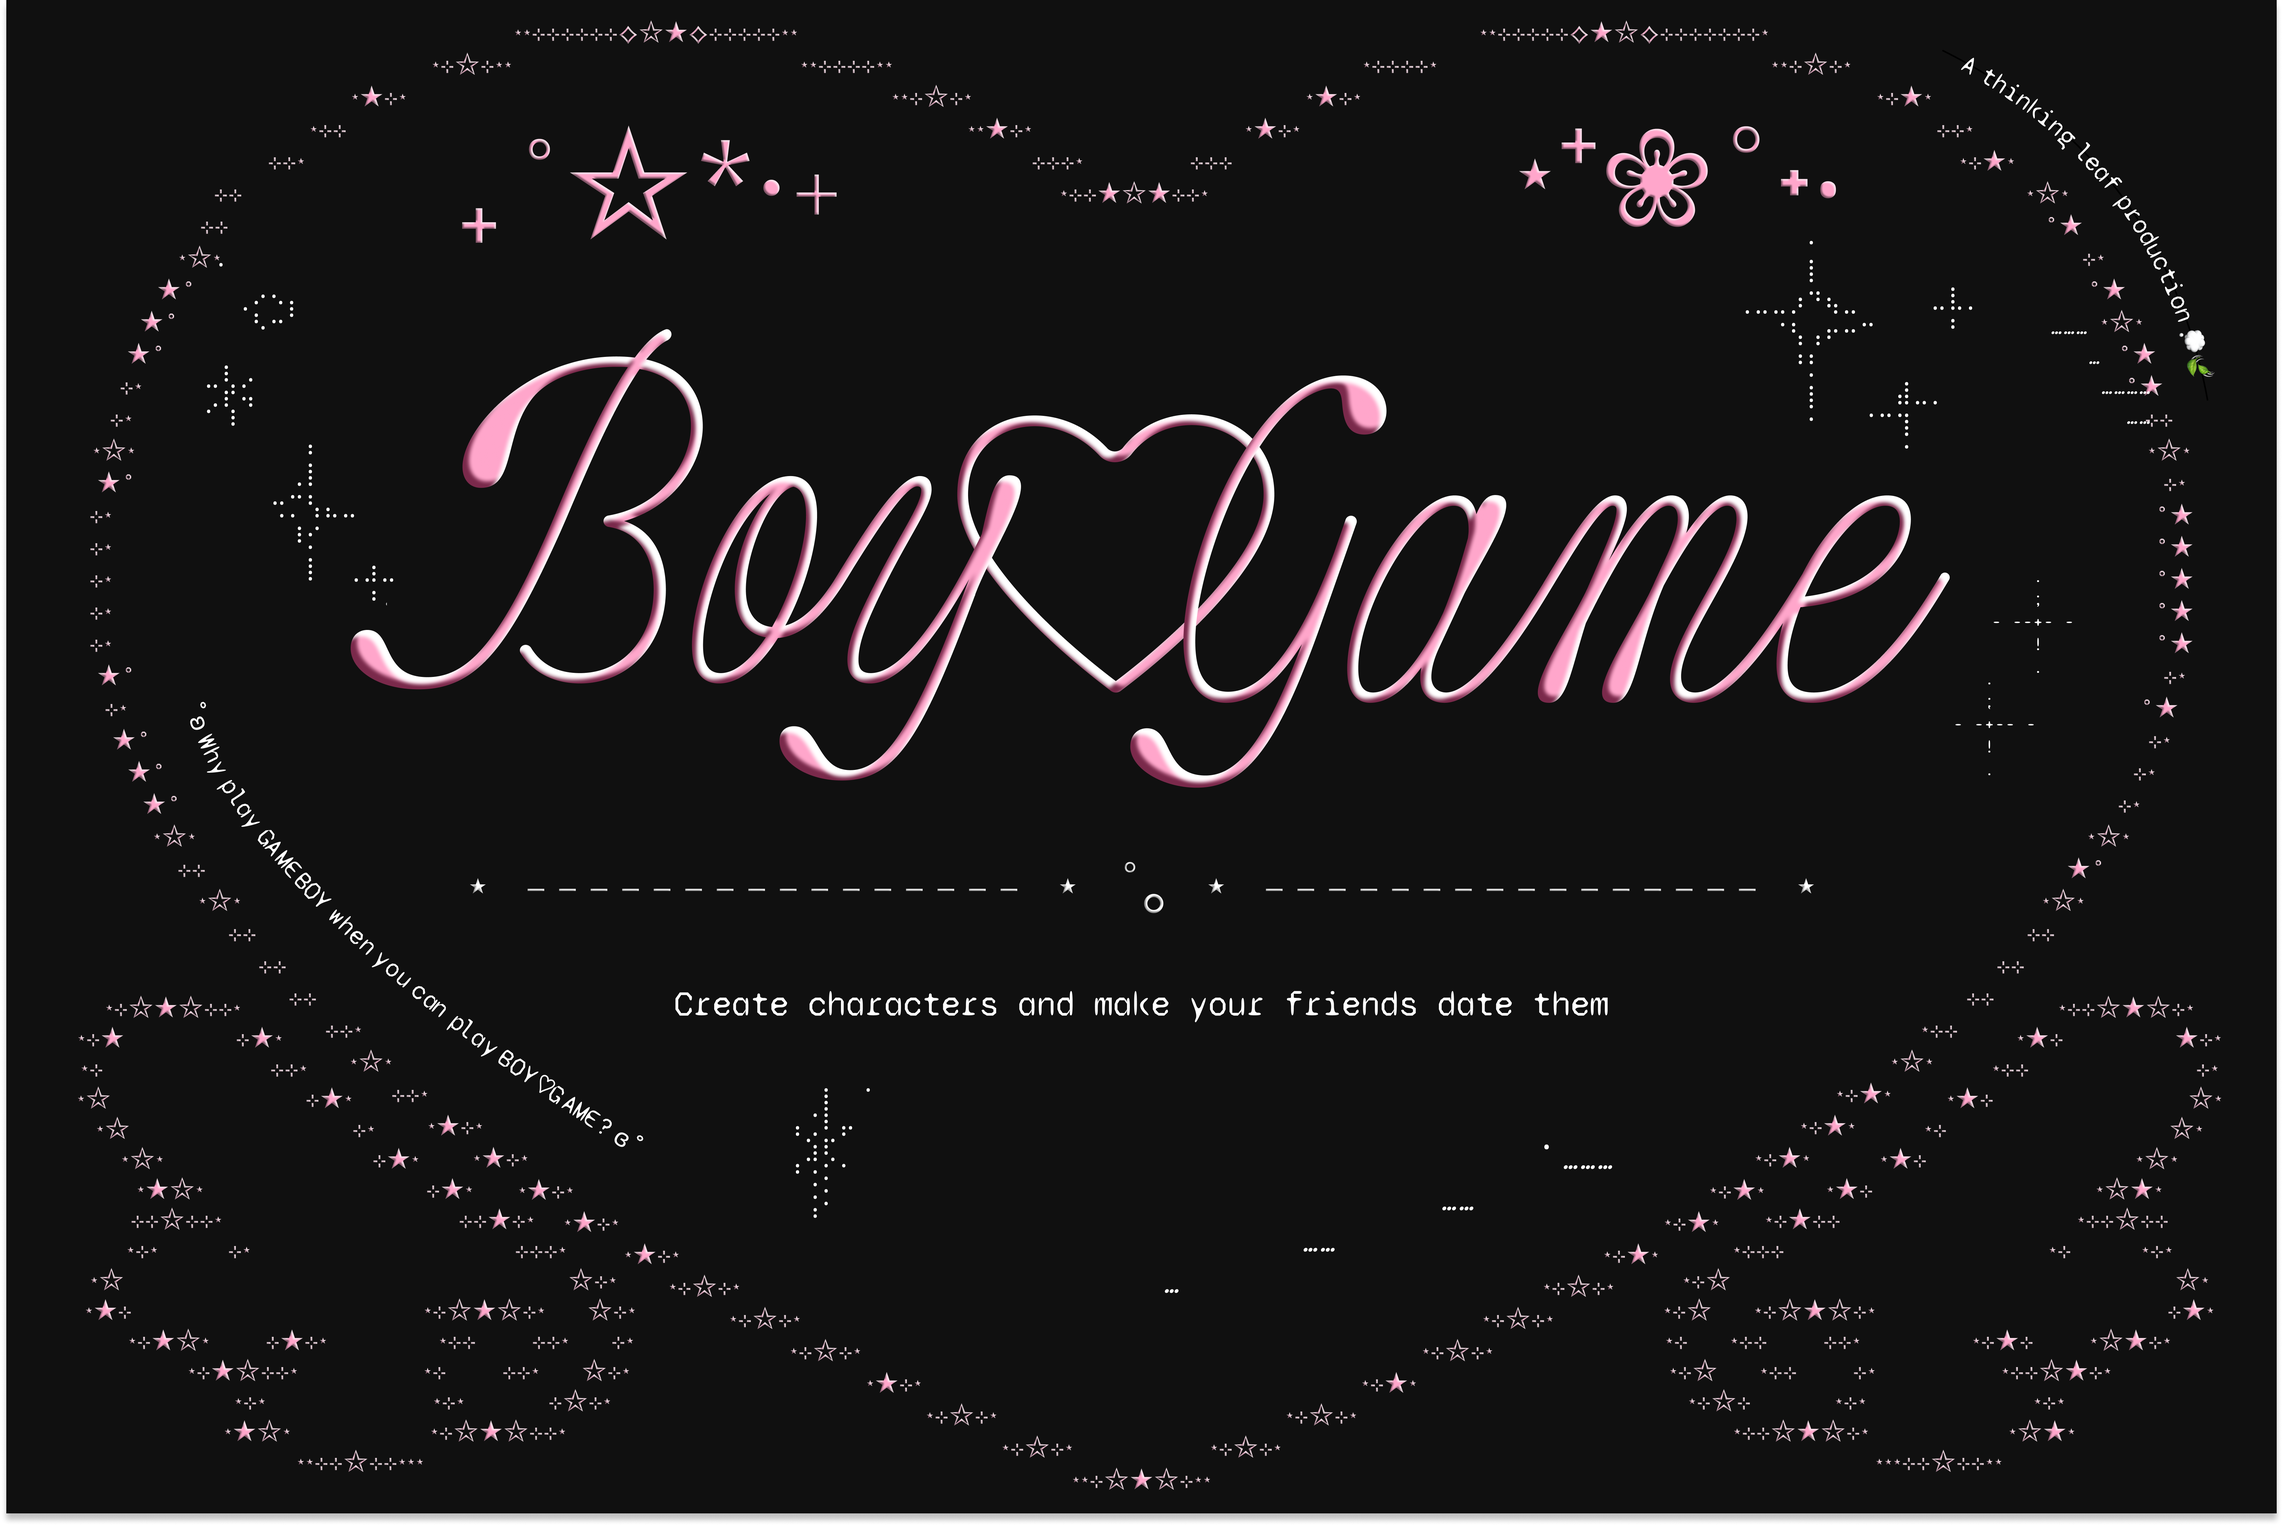
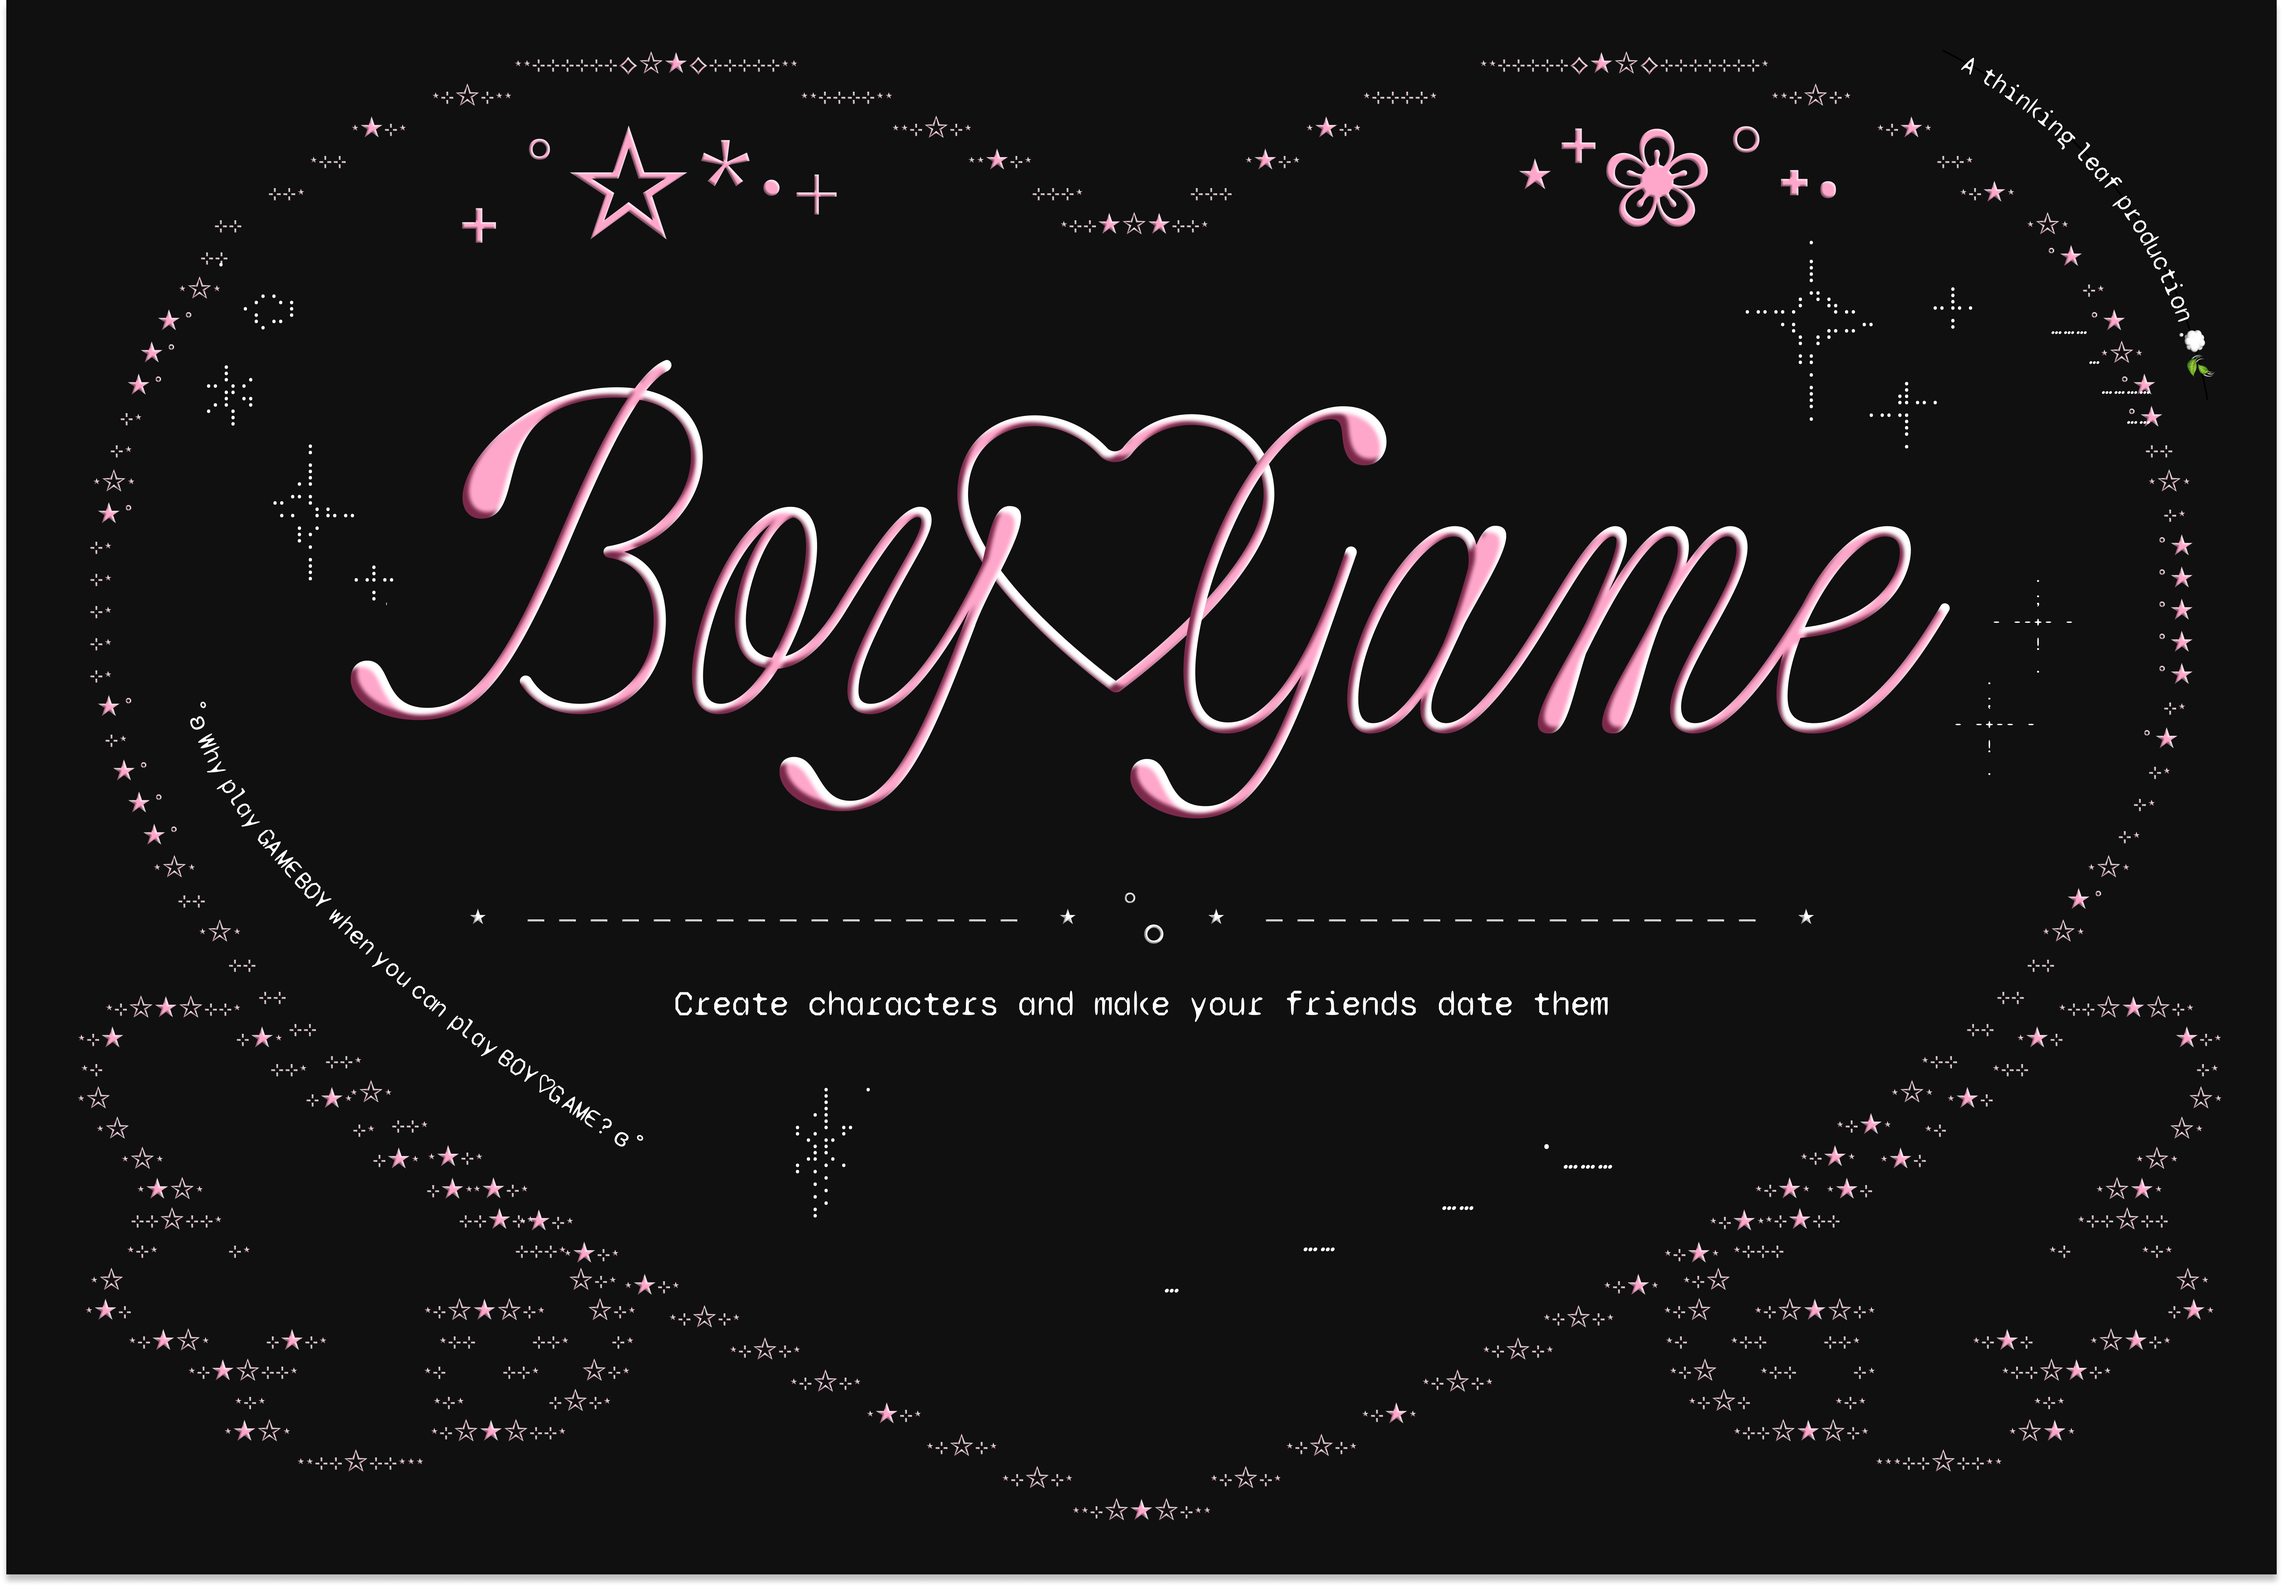
homepage polish

diff --git a/frontend/src/Pages/Homepage.js b/frontend/src/Pages/Homepage.js
@@ -23,7 +23,7 @@ const Homepage = () => {
 
   const buttonStyle = {
     position: "absolute",
-    top: "76%",
+    top: "73%",
     left: "50%",
     transform: "translate(-50%, -50%)",
     padding: "2vh 4vh",
@@ -35,13 +35,20 @@ const Homepage = () => {
     fontFamily: "Syne Mono, sans-serif",
     boxShadow: "white -7px 7px 6px inset, #A8466F 7px -7px 6px inset",
     cursor: "pointer",
+    transition: "transform 0.2s ease",
   };
 
   return (
     <div style={containerStyle}>
       <div style={imageWrapperStyle}>
         <img src="/img/home.png" alt="Title Screen" style={imageStyle} />
-        <button style={buttonStyle}>START</button>
+        <button
+          style={buttonStyle}
+          onMouseEnter={(e) => (e.target.style.transform = "translate(-50%, -50%) scale(1.05)")}
+          onMouseLeave={(e) => (e.target.style.transform = "translate(-50%, -50%)")}
+        >
+          START
+        </button>
       </div>
     </div>
   );
